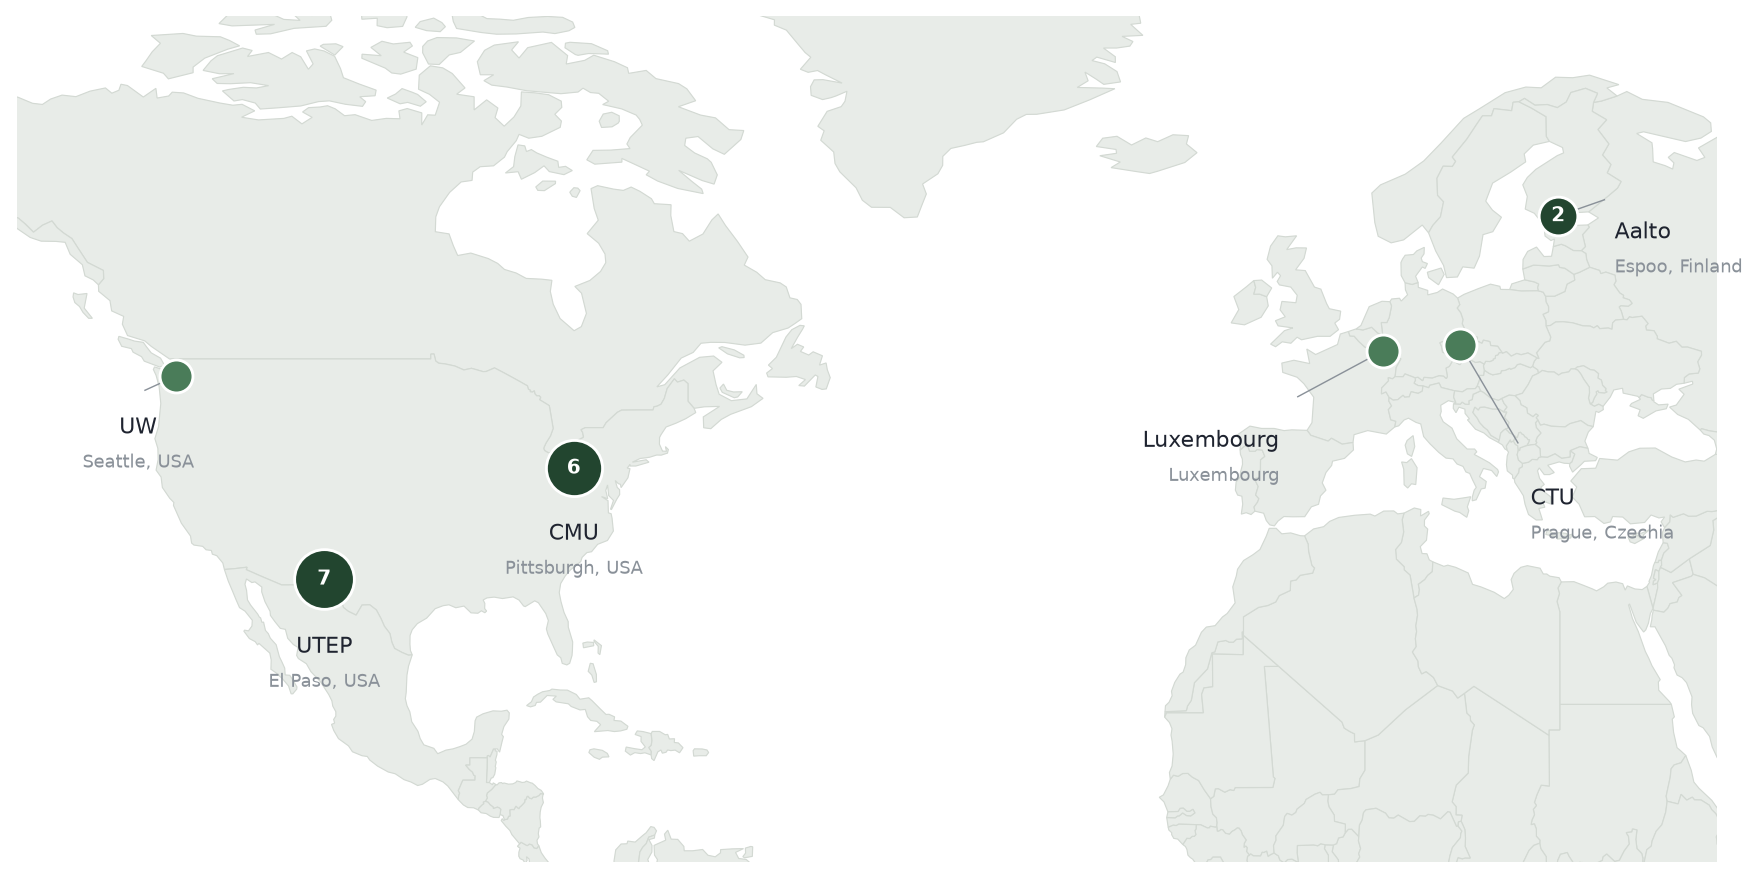
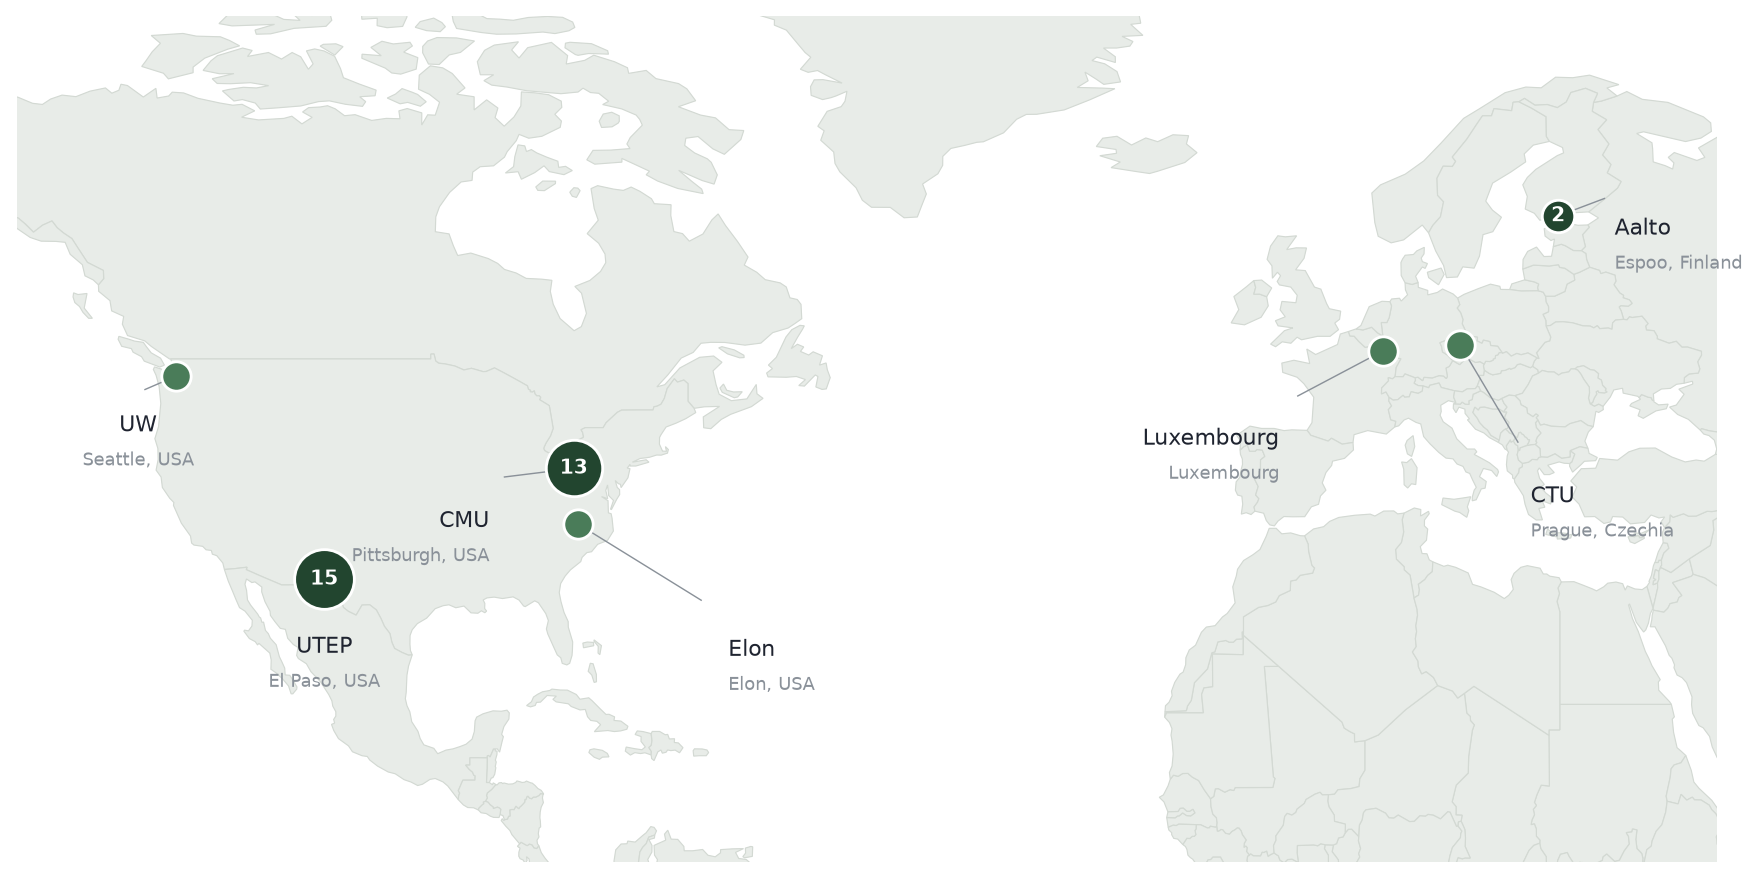
Fill out the collaborator list properly
The first pass only scraped the collaborator panels, which is not everyone. Now
it also takes the co-authors on publications.md and own-bib.bib, the students on
both mentor pages, and the named investigators on funding.md. 35 people across 7
institutions, up from 18 across 6.

People moved into their own people.json, so an affiliation can be corrected
without touching the coordinates. Anyone without one is reported by name at the
end of the run and left off the map, rather than dropped quietly. Affiliations
that are not stated anywhere on the site are flagged `inferred: true`.

Two still have no affiliation and are off the map: Carlos A. Catania and Omkar
Thakoor.

diff --git a/internal/collaborators/build_map.py b/internal/collaborators/build_map.py
@@ -4,7 +4,8 @@ Draw the collaborator map for the Research page.
 
     python internal/collaborators/build_map.py
 
-Reads  places.json   — where people are, hand-editable
+Reads  people.json   — everyone the site names, and where they are
+       places.json   — the institutions and their coordinates
        world.json    — land outlines, Natural Earth 110m (public domain)
 Writes content/.gitbook/assets/collaborator-map.png
        and the map block on content/research/overview.md
@@ -99,29 +100,56 @@ def draw(places, pad=13.0):
     plt.close(fig)
 
 
+ROLE_ORDER = {"collaborator": 0, "co-author": 1, "mentee": 2}
+
+
 def block(places):
     total = sum(len(p["people"]) for p in places)
+    countries = {p["city"].rsplit(",", 1)[-1].strip() for p in places}
     rows = ["<table><thead><tr><th width=\"230\">Where</th><th>Who</th>"
             "</tr></thead><tbody>"]
     for p in sorted(places, key=lambda q: (-len(q["people"]), q["short"])):
+        who = sorted(p["people"],
+                     key=lambda x: (ROLE_ORDER.get(x.get("role"), 9), x["name"]))
         rows.append("<tr><td><strong>%s</strong><br><em>%s</em></td><td>%s</td></tr>"
-                    % (p["institution"], p["city"], ", ".join(p["people"])))
+                    % (p["institution"], p["city"],
+                       ", ".join(x["name"] for x in who)))
     rows.append("</tbody></table>")
     return "\n".join([
         BEGIN, "",
         '<figure><img src="../.gitbook/assets/collaborator-map.png" '
         'alt="Where the collaborators are: %s people across %d institutions">'
-        '<figcaption><p>%d people, %d institutions, four countries.</p></figcaption>'
-        '</figure>' % (total, len(places), total, len(places)),
+        '<figcaption><p>%d people, %d institutions, %d countries.</p></figcaption>'
+        '</figure>' % (total, len(places), total, len(places), len(countries)),
         "", "\n".join(rows), "", END])
 
 
+def gather():
+    """Attach people to places. Anyone unplaced is reported, never dropped."""
+    places = {p["institution"]: dict(p, people=[])
+              for p in load("places.json")["places"]}
+    unplaced, unknown = [], set()
+    for person in load("people.json")["people"]:
+        inst = person.get("institution") or ""
+        if inst in places:
+            places[inst]["people"].append(person)
+        else:
+            unplaced.append(person)
+            if inst:
+                unknown.add(inst)
+    return ([p for p in places.values() if p["people"]], unplaced, sorted(unknown))
+
+
 def main():
-    places = [p for p in load("places.json")["places"] if p["people"]]
+    places, unplaced, unknown = gather()
     draw(places)
 
     text = io.open(PAGE, encoding="utf-8").read()
     new = block(places)
+    for inst in unknown:
+        print("  no place for institution: %s" % inst)
+    for person in unplaced:
+        print("  no affiliation: %s (%s)" % (person["name"], person.get("role", "")))
     if BEGIN in text and END in text:
         text = re.sub(re.escape(BEGIN) + r".*?" + re.escape(END), new, text,
                       flags=re.S)

diff --git a/content/research/overview.md b/content/research/overview.md
@@ -16,13 +16,14 @@ icon: researchgate
 
 <!-- collaborator-map -->
 
-<figure><img src="../.gitbook/assets/collaborator-map.png" alt="Where the collaborators are: 18 people across 6 institutions"><figcaption><p>18 people, 6 institutions, four countries.</p></figcaption></figure>
+<figure><img src="../.gitbook/assets/collaborator-map.png" alt="Where the collaborators are: 34 people across 7 institutions"><figcaption><p>34 people, 7 institutions, 4 countries.</p></figcaption></figure>
 
 <table><thead><tr><th width="230">Where</th><th>Who</th></tr></thead><tbody>
-<tr><td><strong>University of Texas at El Paso</strong><br><em>El Paso, USA</em></td><td>Christopher Kiekintveld, Palvi Aggarwal, Aritran Piplai, Anantaa Kotal, Yansi Keim, Mohammad Taneem Bin Nazim, Jaime Acosta</td></tr>
-<tr><td><strong>Carnegie Mellon University</strong><br><em>Pittsburgh, USA</em></td><td>Cleotilde Gonzalez, Fei Fang, Baptiste Prébot, Maria José Ferreira, Volodymyr (Vlad) Miloserdov, Stephanie Milani</td></tr>
+<tr><td><strong>University of Texas at El Paso</strong><br><em>El Paso, USA</em></td><td>Anantaa Kotal, Aritran Piplai, Christopher Kiekintveld, Deepak Tosh, Jaime Acosta, Palvi Aggarwal, Yansi Keim, Marcus Gutierrez, Mohammad Sujan Miah, Oscar Veliz, Jonathan Hernandez, Mohammad Taneem Bin Nazim, Nicholas Jara, Sabrina Saika, Saeefa Rubaiyet Nowmi</td></tr>
+<tr><td><strong>Carnegie Mellon University</strong><br><em>Pittsburgh, USA</em></td><td>Baptiste Prébot, Cleotilde Gonzalez, Fei Fang, Maria José Ferreira, Stephanie Milani, Kuldeep Singh, Xiaoli Xi, Zimeng Song, Adam Hunt, Mason Kim, Neil Ramen, Pau Balcells Sanchez, Volodymyr (Vlad) Miloserdov</td></tr>
 <tr><td><strong>Aalto University</strong><br><em>Espoo, Finland</em></td><td>Antti Oulasvirta, Jannat Akbar</td></tr>
 <tr><td><strong>Czech Technical University in Prague</strong><br><em>Prague, Czechia</em></td><td>Maria Rigaki</td></tr>
+<tr><td><strong>Elon University</strong><br><em>Elon, USA</em></td><td>Rony Dahnal</td></tr>
 <tr><td><strong>University of Luxembourg</strong><br><em>Luxembourg</em></td><td>Tyler Malloy</td></tr>
 <tr><td><strong>University of Washington</strong><br><em>Seattle, USA</em></td><td>Prashanth Rajivan</td></tr>
 </tbody></table>
